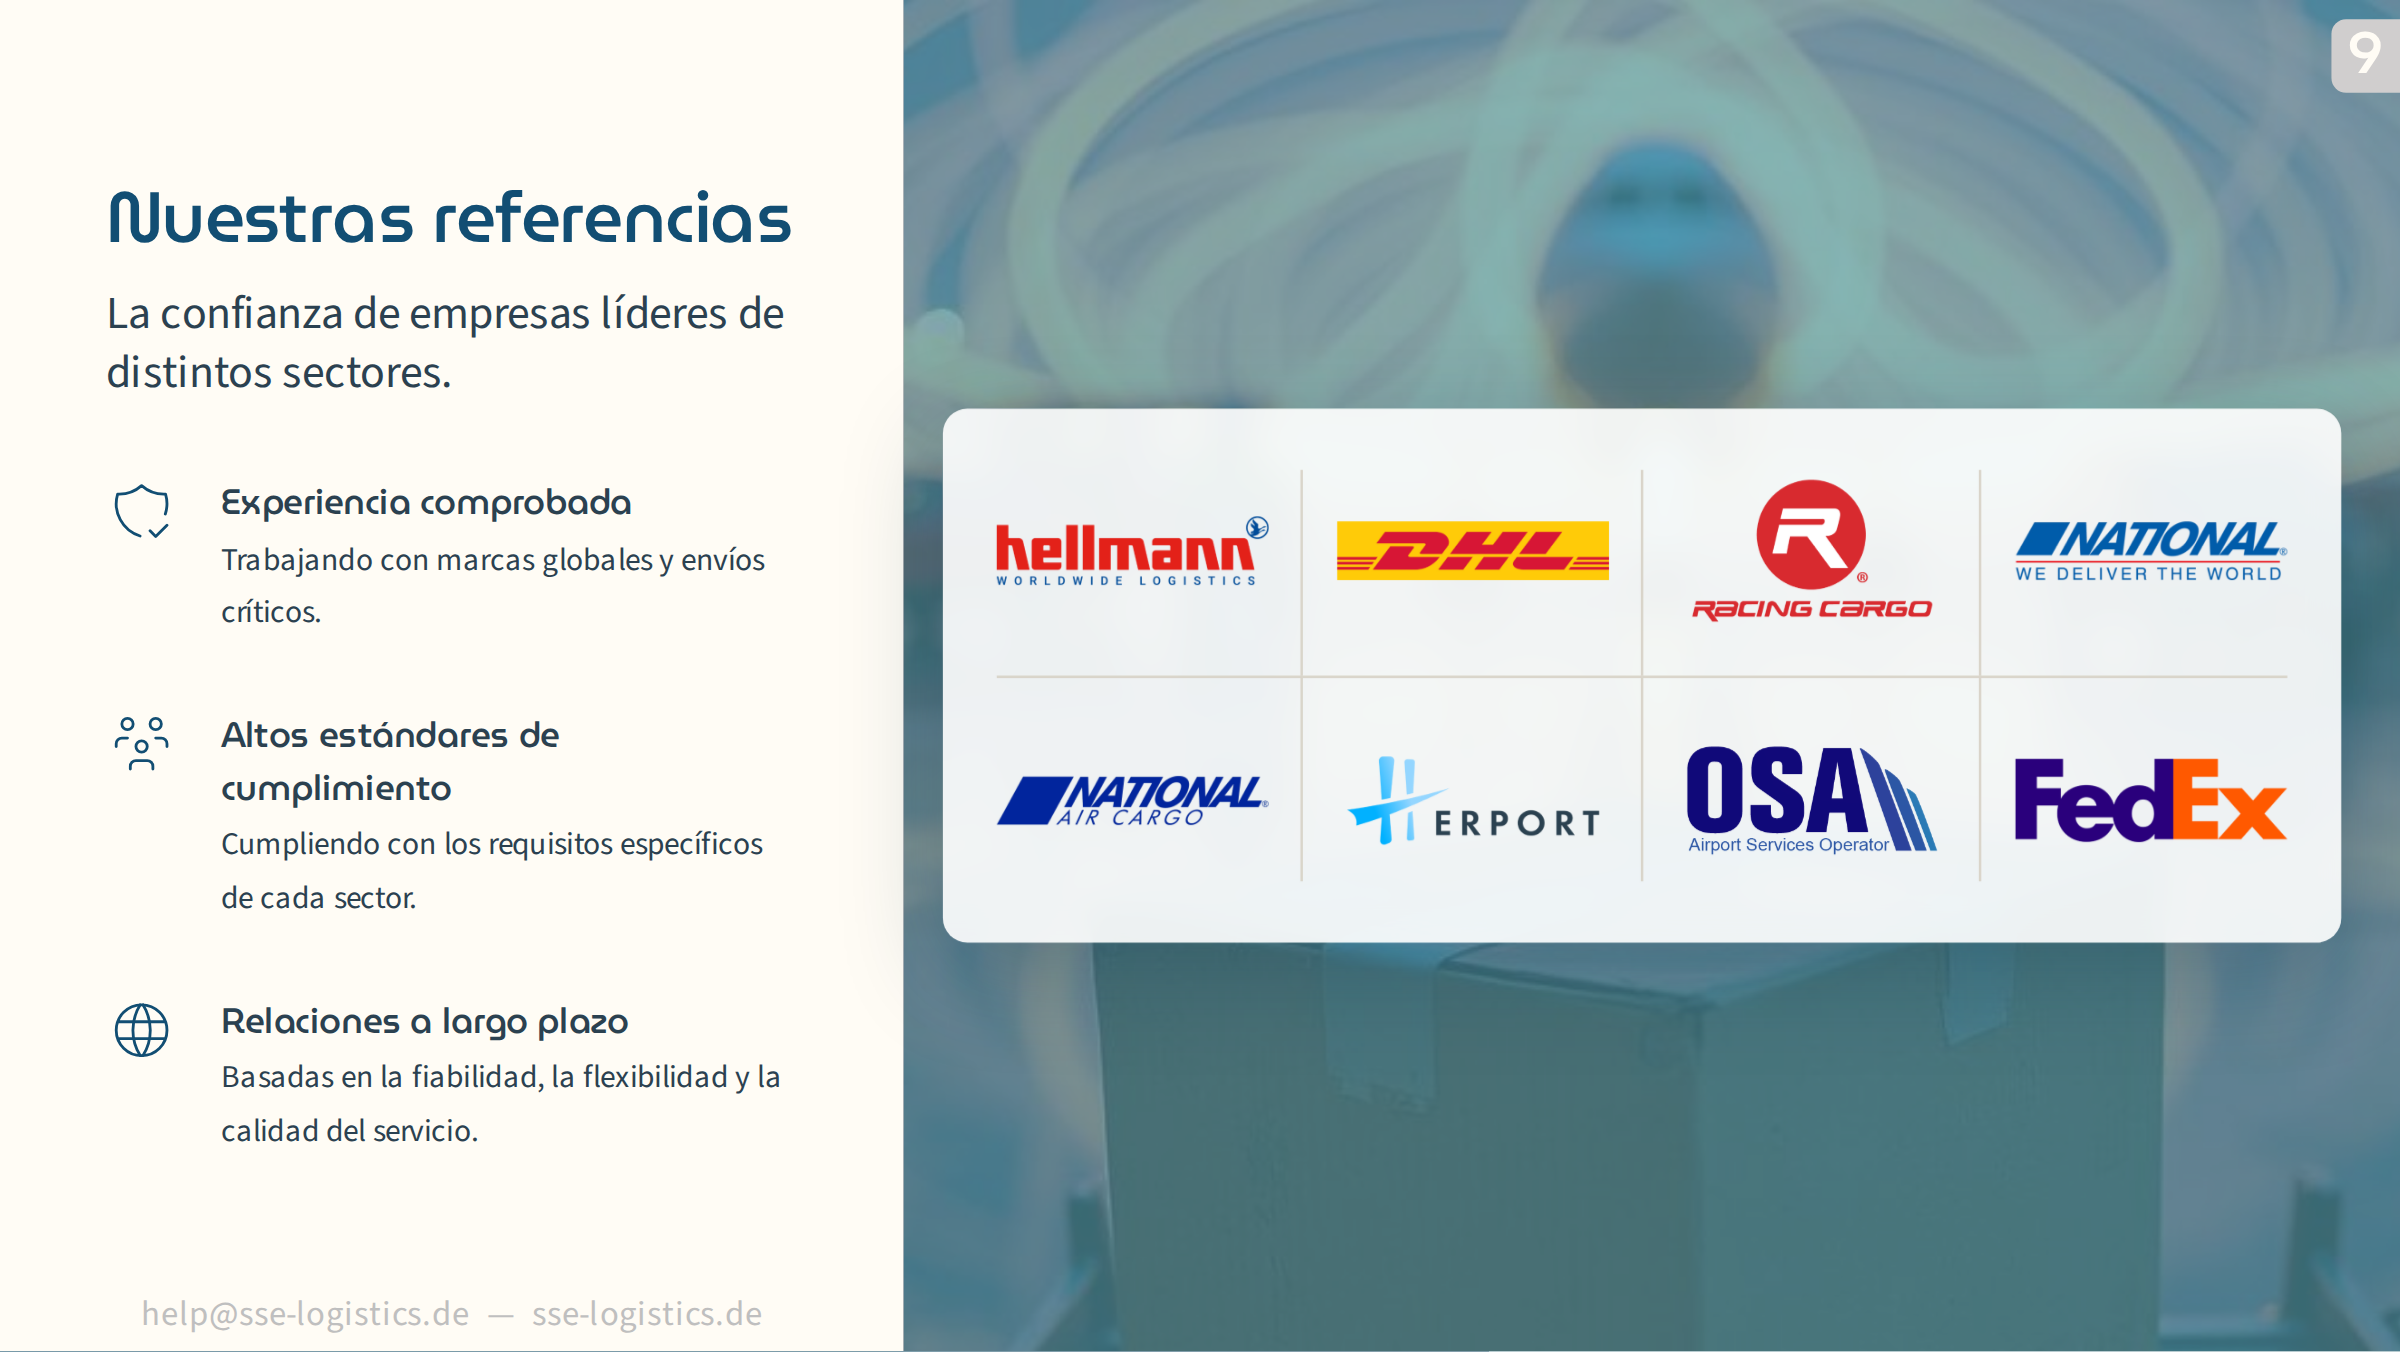
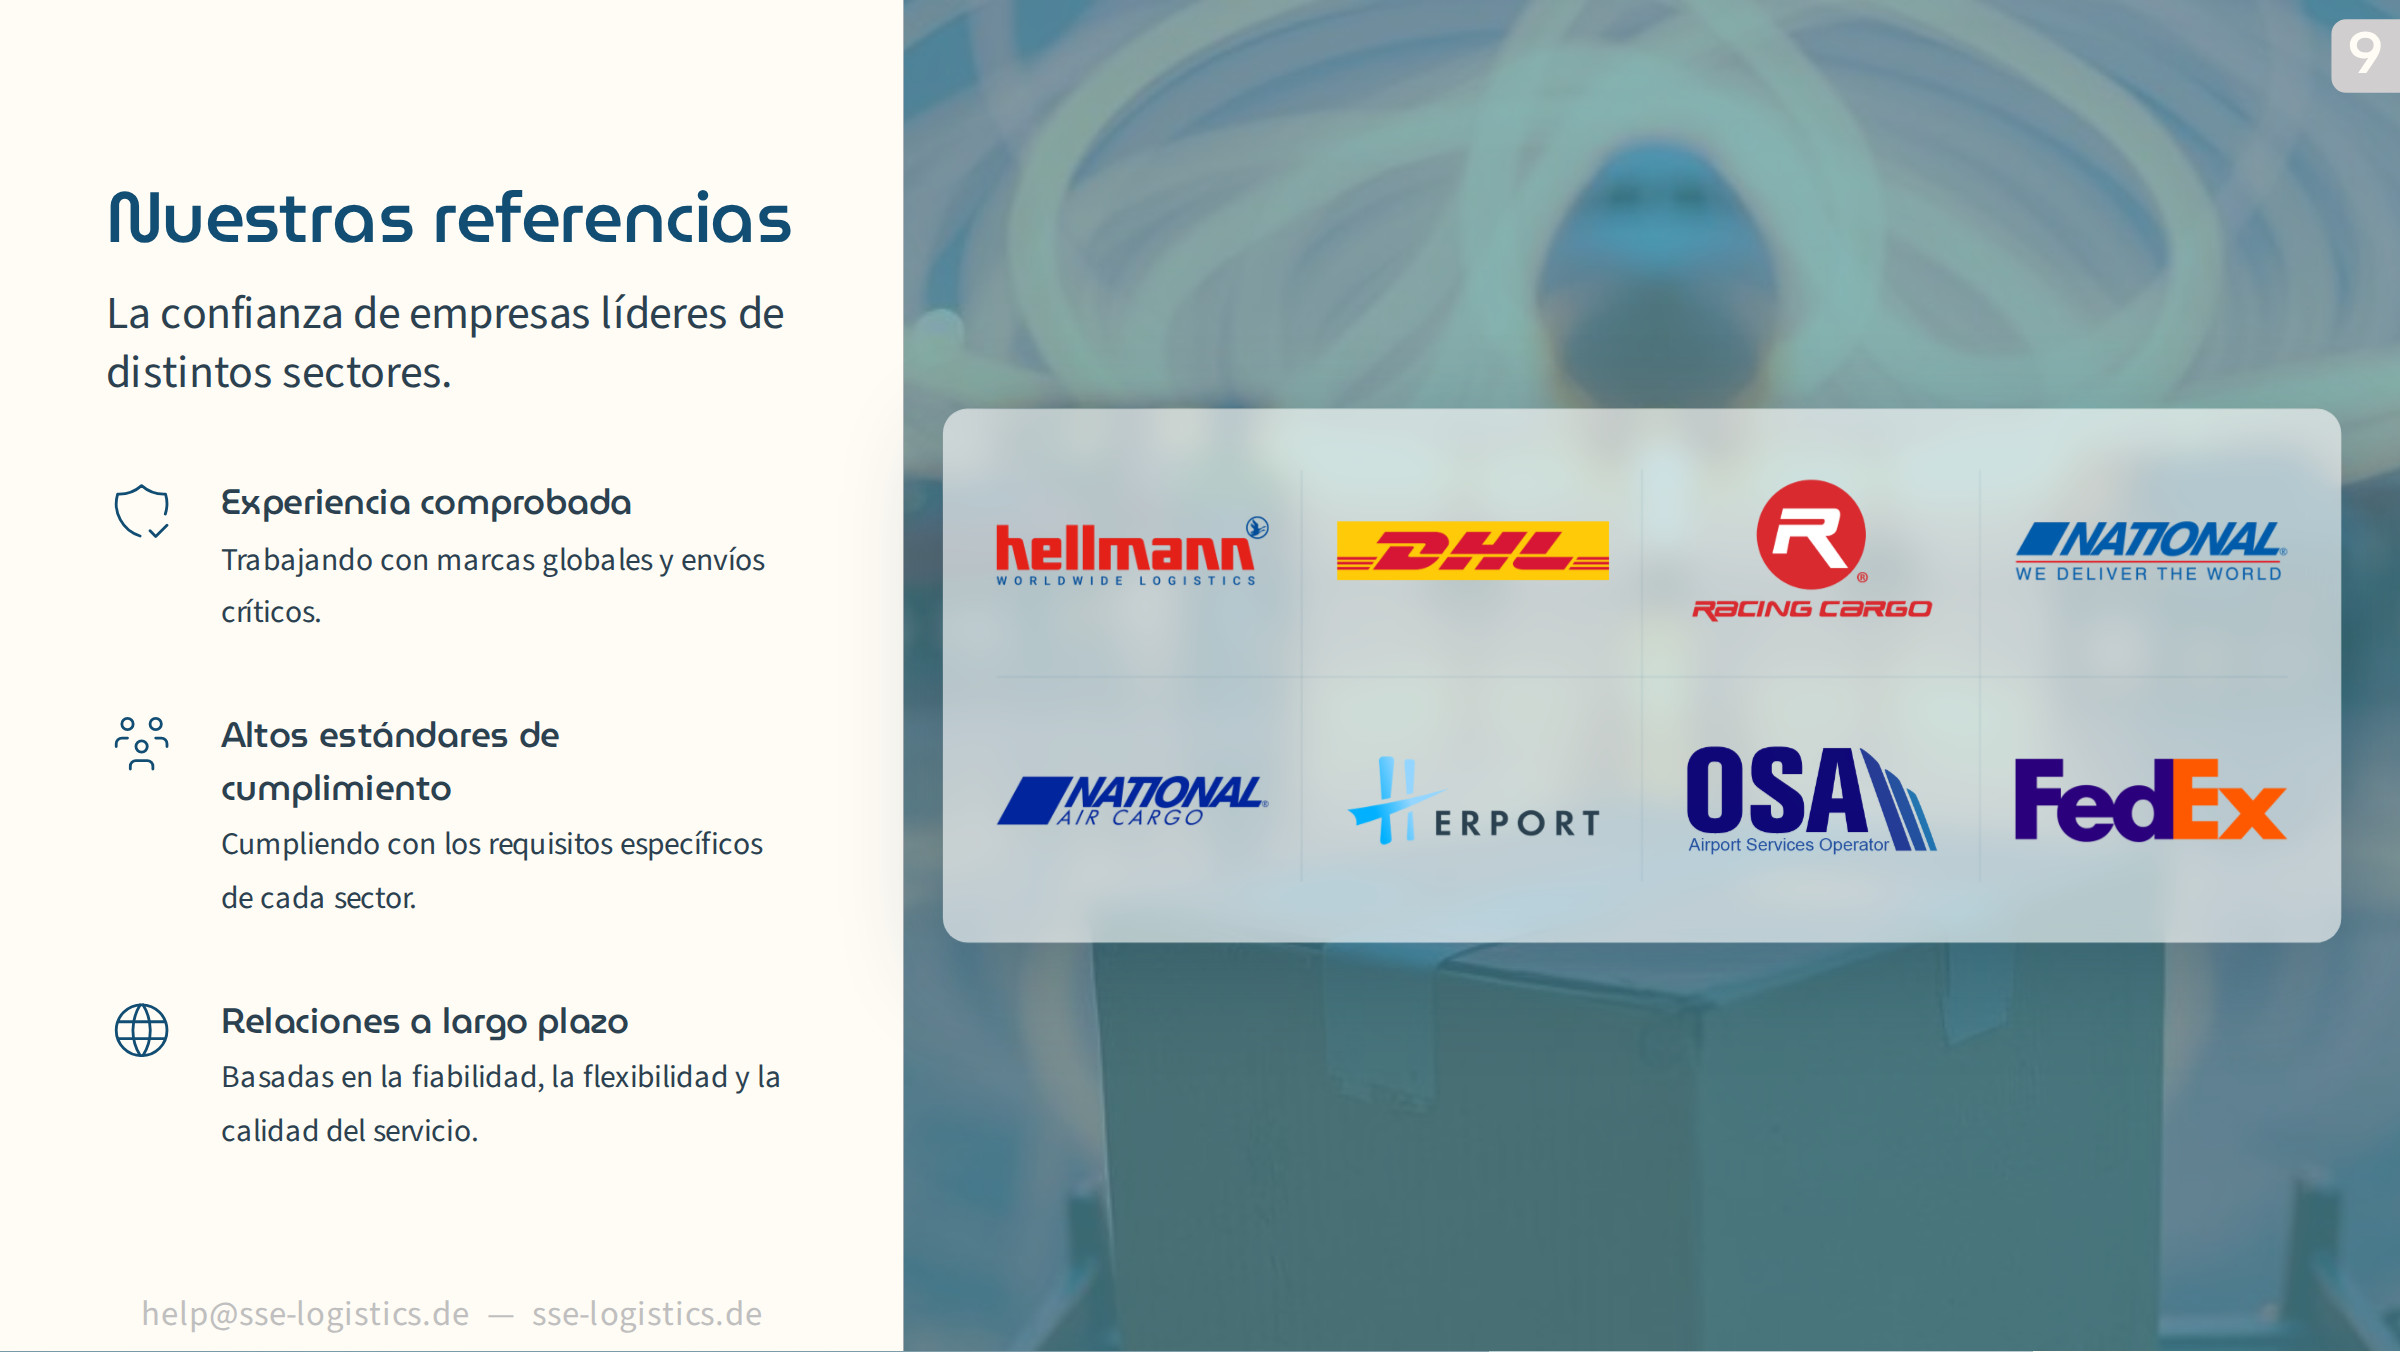
transp slide 10

Changed region(s): [[0.375, 0.2796, 1.0, 0.7145], [0.8438, 0.9941, 1.0, 1.0]]

diff --git a/2025-02-alla-presentation/slides.md b/2025-02-alla-presentation/slides.md
@@ -317,17 +317,17 @@ photoWidth: 62.34%
 .logos {
   position: absolute; z-index: 5; top: 50%; left: calc(100% - var(--photo) + 16px); right: 24px; translate: 0 -50%;
   display: grid; grid-template-columns: repeat(4, 1fr); grid-auto-rows: 102px;
-  background: rgba(255,255,255,.9); backdrop-filter: blur(6px); border-radius: 10px;
+  background: rgba(255,255,255,.6); backdrop-filter: blur(6px); border-radius: 10px;
   box-shadow: 0 12px 40px rgba(13,53,80,.25); padding: 7px 8px;
 }
 .logos .cell { position: relative; }
 .logos img { width: 100%; height: 100%; box-sizing: border-box; padding: 26px 14px; object-fit: contain; }
 /* vertical dividers run unbroken through both rows, stopping short of the panel top and bottom;
-   one horizontal divider, inset from the panel sides */
-.logos .cell:not(:nth-child(4n))::after { content: ''; position: absolute; right: 0; top: 0; bottom: 0; width: 1px; background: var(--c-line); }
+   one horizontal divider, inset from the panel sides; brand at 5%, barely there */
+.logos .cell:not(:nth-child(4n))::after { content: ''; position: absolute; right: 0; top: 0; bottom: 0; width: 1px; background: rgba(18,78,115,.05); }
 .logos .cell:nth-child(-n+4)::after { top: 18%; }
 .logos .cell:nth-child(n+5)::after { bottom: 18%; }
-.logos::before { content: ''; position: absolute; left: 22px; right: 22px; top: 50%; height: 1px; background: var(--c-line); }
+.logos::before { content: ''; position: absolute; left: 22px; right: 22px; top: 50%; height: 1px; background: rgba(18,78,115,.05); }
 /* square-ish marks look bigger than wordmarks: shrink them a bit */
 .logos img.racing-cargo, .logos img.herport { padding: 22px 18px; }
 .logos img.osa { padding: 24px 18px; }
